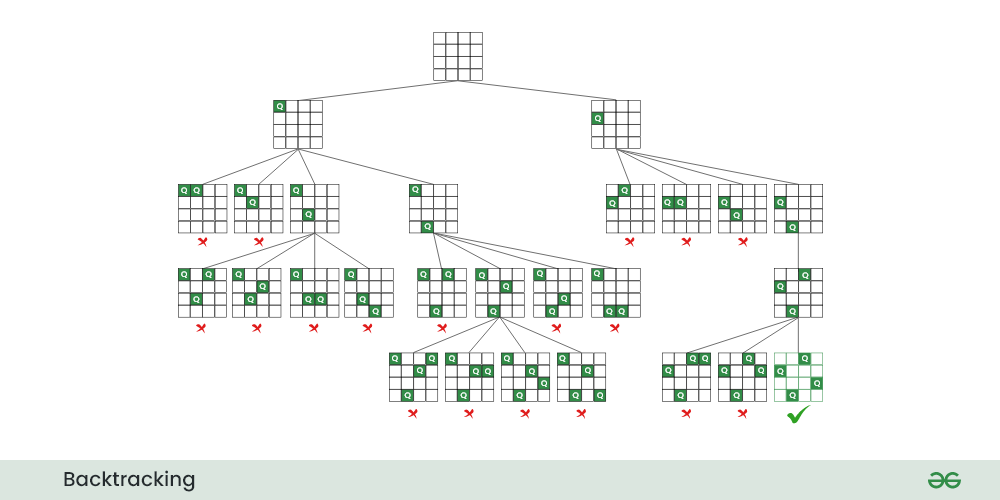
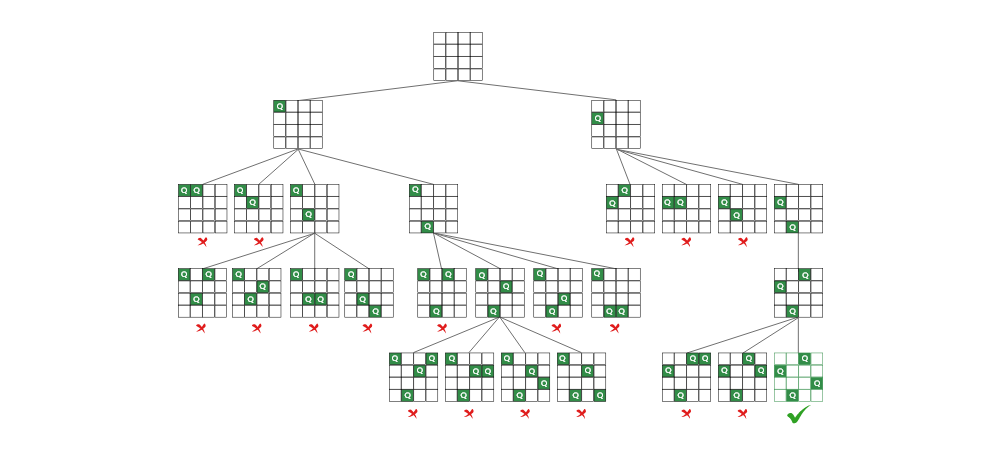
minor changes

Changed region(s): [[0.0, 0.0613, 1.0, 1.0]]

diff --git a/project-pages/n_queens_solution.html b/project-pages/n_queens_solution.html
@@ -140,15 +140,15 @@
             -->
             <div class="gallery-image-container half-width">
               <img src="../assets/images/Backtracking.png" class="gallery-image">
-              <span class="image-caption">.</span>
+              <span class="image-caption">Branch & Bound think process on a 4x4 board.</span>
             </div>
             <div class="gallery-image-container half-width">
               <img src="../assets/images/QueensMax.svg" class="gallery-image">
-              <span class="image-caption">Give your image a caption. People love context.</span>
+              <span class="image-caption">All posible examples of 8x8 board.</span>
             </div>
-            <div class="gallery-image-container">
+            <div class="gallery-image-container half-width">
               <img src="../assets/images/cplusplus_interface.jpeg" class="gallery-image">
-              <span class="image-caption">Give your image a caption. People love context.</span>
+              <span class="image-caption">C++ interface</span>
             </div>
         </div>
       </div>

diff --git a/css/layout.css b/css/layout.css
@@ -237,6 +237,7 @@
         width: 100%;
         height: auto;
         border-radius: 10px;
+        background-color: white;
       }
   
   
